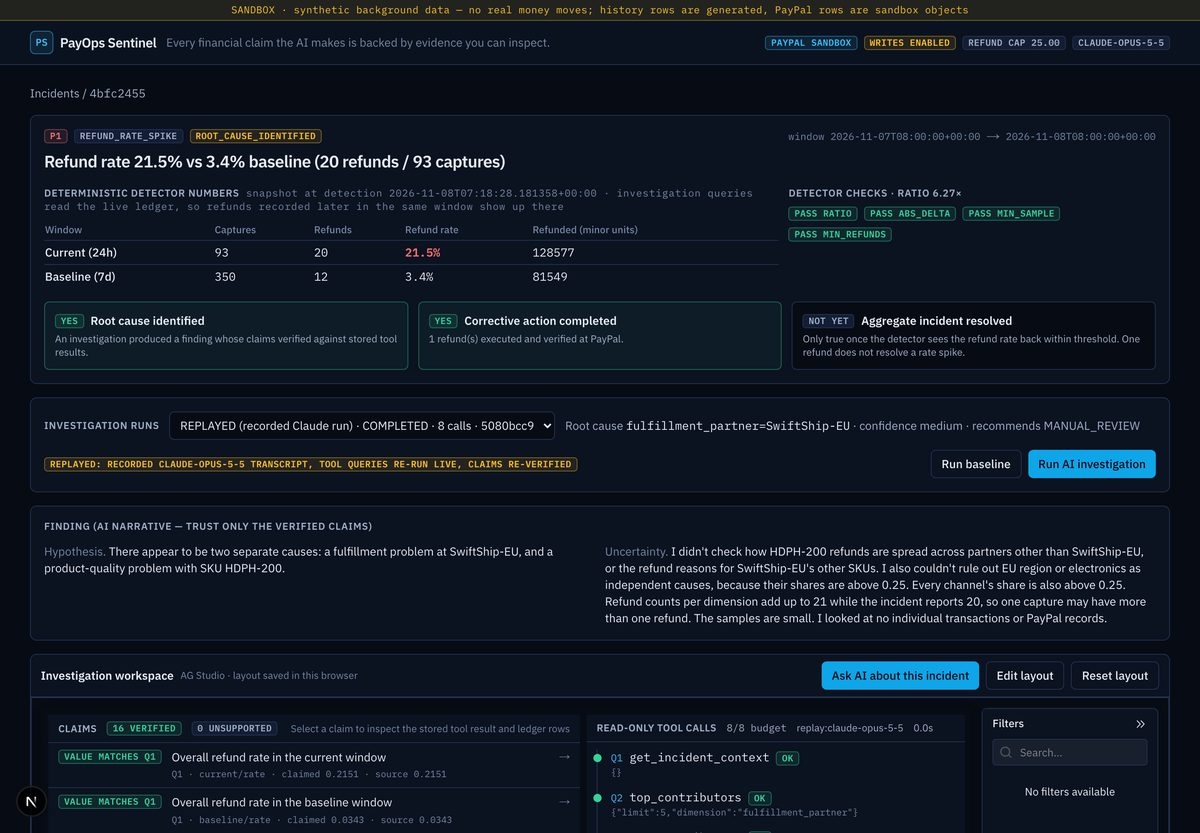
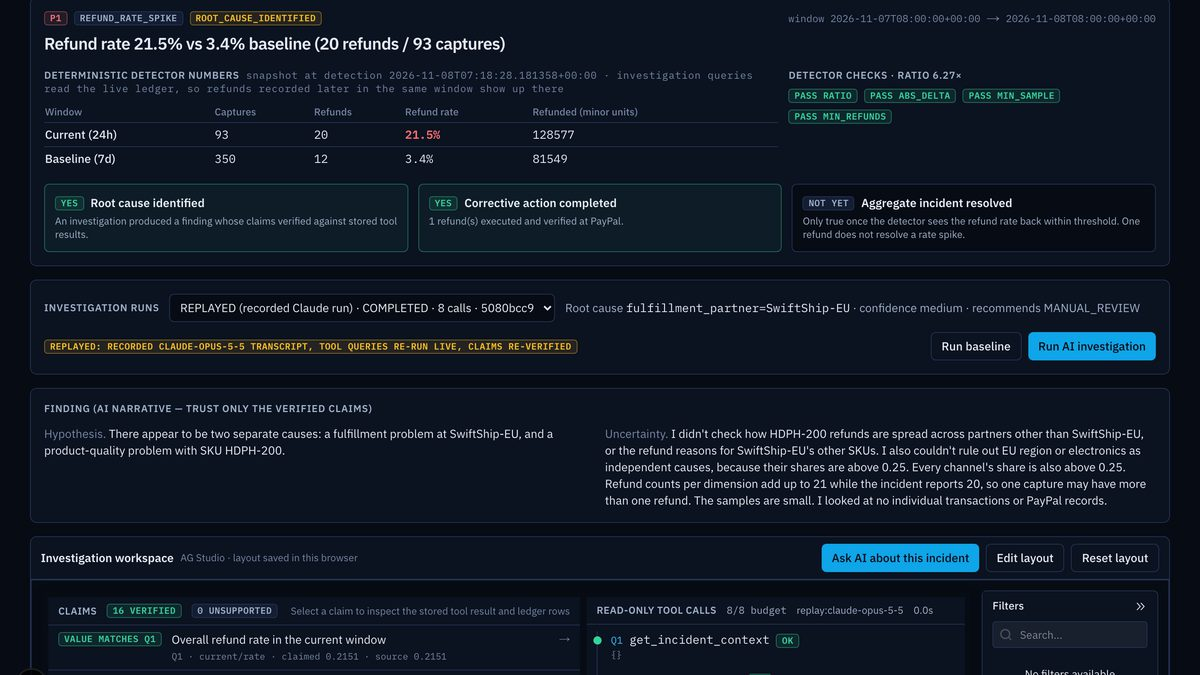
feat(profile): mobile hero, RewardShield up front, accurate approval wording (#4)
Add stacked mobile hero variants selected by a max-width picture source; crop flagship screenshots to 16:9; move RewardShield to the top of supporting work with its verified upstream contribution; correct the approval principle (DisputeDesk auto-files under $500) and the Half-Life attribution.

diff --git a/assets/src/build.py b/assets/src/build.py
@@ -25,10 +25,16 @@ THEMES = {
 SANS = "Inter, -apple-system, 'Segoe UI', Helvetica, Arial, sans-serif"
 MONO = "ui-monospace, 'SF Mono', Menlo, Consolas, 'Liberation Mono', monospace"
 
+DESC = (
+    "Building AI systems that reason, use tools, verify outcomes and stay inside "
+    "enforceable limits. Four stages: the model proposes, code enforces policy, a "
+    "person approves actions above risk limits, and the outcome is verified at the source."
+)
+
 STEPS = [
     ("01", "PROPOSE", "The model plans the action"),
     ("02", "ENFORCE", "Policy in code allows or denies"),
-    ("03", "AUTHORIZE", "A person signs what can't be undone"),
+    ("03", "AUTHORIZE", "Above risk limits, a person signs"),
     ("04", "VERIFY", "Outcome re-checked at the source"),
 ]
 
@@ -86,7 +92,7 @@ def hero(c):
         )
     return f"""<svg xmlns="http://www.w3.org/2000/svg" viewBox="0 0 {w} {h}" width="{w}" height="{h}" role="img" aria-labelledby="t d">
 <title id="t">Shroddha Ghosh — Software Engineer, AI Systems and Agentic Applications</title>
-<desc id="d">Building AI systems that reason, use tools, verify outcomes and stay inside enforceable limits. Four stages: the model proposes, code enforces policy, a person authorizes irreversible actions, and the outcome is verified at the source.</desc>
+<desc id="d">{DESC}</desc>
 <rect x="0.5" y="0.5" width="{w - 1}" height="{h - 1}" rx="14" fill="{c["bg"]}" stroke="{c["border"]}"/>
 {grid(c, w, h)}
 <text x="56" y="62" font-family="{MONO}" font-size="13" letter-spacing="2.6" fill="{c["muted"]}">SOFTWARE ENGINEER  /  AI SYSTEMS &amp; AGENTIC APPLICATIONS</text>
@@ -102,9 +108,64 @@ def hero(c):
 """
 
 
+def mobile_flow(c, x, ys):
+    """Same four stages, stacked: one row per stage, connectors pointing down."""
+    parts = []
+    for i in range(3):
+        y1, y2 = ys[i] + 16, ys[i + 1] - 22
+        colour = c["muted"] if i == 0 else c["accent"]
+        dash = ' stroke-dasharray="4 5"' if i == 0 else ""
+        parts.append(
+            f'<line x1="{x}" y1="{y1}" x2="{x}" y2="{y2}" stroke="{colour}" stroke-width="2"{dash}/>'
+            f'<path d="M{x - 5} {y2} L{x} {y2 + 8} L{x + 5} {y2} Z" fill="{colour}"/>'
+        )
+    for i, (num, label, desc) in enumerate(STEPS):
+        y = ys[i]
+        parts.append(node(i, x, y, c))
+        parts.append(
+            f'<text x="{x + 36}" y="{y - 2}" font-family="{MONO}" font-size="19" '
+            f'letter-spacing="2" fill="{c["faint"]}">{num}  '
+            f'<tspan fill="{c["text"]}" font-weight="600">{label}</tspan></text>'
+            f'<text x="{x + 36}" y="{y + 25}" font-family="{SANS}" font-size="21" '
+            f'fill="{c["muted"]}">{desc}</text>'
+        )
+    return "".join(parts)
+
+
+def hero_mobile(c):
+    """Phone layout: ~2x the type of the desktop hero at 300-400px rendered width."""
+    w, h = 560, 640
+    lines = [
+        ("Building AI systems that reason,", "text"),
+        ("use tools, verify outcomes,", "text"),
+        ("and stay inside limits that code", "muted"),
+        ("can enforce.", "muted"),
+    ]
+    headline = "".join(
+        f'<text x="32" y="{206 + 32 * i}" font-family="{SANS}" font-size="24" '
+        f'fill="{c[tone]}">{text}</text>'
+        for i, (text, tone) in enumerate(lines)
+    )
+    return f"""<svg xmlns="http://www.w3.org/2000/svg" viewBox="0 0 {w} {h}" width="{w}" height="{h}" role="img" aria-labelledby="t d">
+<title id="t">Shroddha Ghosh — Software Engineer, AI Systems and Agentic Applications</title>
+<desc id="d">{DESC}</desc>
+<rect x="0.5" y="0.5" width="{w - 1}" height="{h - 1}" rx="14" fill="{c["bg"]}" stroke="{c["border"]}"/>
+{grid(c, w, h, cols=6, inset=32)}
+<text x="32" y="52" font-family="{MONO}" font-size="15" letter-spacing="2.4" fill="{c["muted"]}">SOFTWARE ENGINEER</text>
+<text x="{w - 32}" y="52" text-anchor="end" font-family="{MONO}" font-size="15" letter-spacing="2.4" fill="{c["faint"]}">GE VERNOVA</text>
+<line x1="32" y1="68" x2="{w - 32}" y2="68" stroke="{c["text"]}" stroke-width="2"/>
+<text x="29" y="138" font-family="{SANS}" font-size="58" font-weight="700" letter-spacing="-1.8" fill="{c["text"]}">Shroddha Ghosh</text>
+<rect x="32" y="158" width="40" height="4" fill="{c["accent"]}"/>
+{headline}
+{mobile_flow(c, 56, [372, 444, 516, 588])}
+</svg>
+"""
+
+
 def main():
     for name, c in THEMES.items():
         (OUT / f"hero-{name}.svg").write_text(hero(c))
+        (OUT / f"hero-mobile-{name}.svg").write_text(hero_mobile(c))
 
 
 if __name__ == "__main__":

diff --git a/README.md b/README.md
@@ -1,20 +1,22 @@
 <picture>
+  <source media="(max-width: 640px) and (prefers-color-scheme: dark)" srcset="assets/hero-mobile-dark.svg">
+  <source media="(max-width: 640px)" srcset="assets/hero-mobile-light.svg">
   <source media="(prefers-color-scheme: dark)" srcset="assets/hero-dark.svg">
   <source media="(prefers-color-scheme: light)" srcset="assets/hero-light.svg">
-  <img alt="Shroddha Ghosh. Software Engineer, AI Systems and Agentic Applications. Building AI systems that reason, use tools, verify outcomes, and stay inside limits that code can enforce. Four stages: the model proposes, code enforces, a person authorizes, the outcome is verified." src="assets/hero-light.svg" width="100%">
+  <img alt="Shroddha Ghosh. Software Engineer, AI Systems and Agentic Applications. Building AI systems that reason, use tools, verify outcomes, and stay inside limits that code can enforce. Four stages: the model proposes, code enforces policy, a person approves actions above risk limits, the outcome is verified at the source." src="assets/hero-light.svg" width="100%">
 </picture>
 
 <p align="center">
   <a href="#selected-work"><b>Selected work</b></a> &nbsp;·&nbsp;
+  <a href="#research-and-supporting-work">Research</a> &nbsp;·&nbsp;
   <a href="#how-i-build">How I build</a> &nbsp;·&nbsp;
-  <a href="#capabilities">Capabilities</a> &nbsp;·&nbsp;
   <a href="https://shroddha-portfolio.vercel.app">Portfolio</a> &nbsp;·&nbsp;
   <a href="https://www.linkedin.com/in/shroddha-ghosh-90b332232/">LinkedIn</a>
 </p>
 
 I'm a software engineer building AI systems that call real tools, check their own work, and act only within limits enforced in code. I work as a **Software Engineering Specialist at GE Vernova** (Python, SQL, analytics, backend systems) and hold a B.Tech in Computer Science (2024).
 
-My independent work is about agentic applications where a wrong answer costs money: payment-incident investigation, chargeback defense, and storefronts that AI agents can buy from. Start with **[PayOps Sentinel](#payops-sentinel)**, **[AgentDoor](#agentdoor)** (live) and **[DisputeDesk](#disputedesk)**.
+My independent work is about agentic applications where a wrong answer costs money: payment-incident investigation, chargeback defense, and storefronts that AI agents can buy from. Start with **[PayOps Sentinel](#payops-sentinel)**, **[AgentDoor](#agentdoor)** (live) and **[DisputeDesk](#disputedesk)**; for evaluation research, **[RewardShield](#research-and-supporting-work)**.
 
 ## Selected work
 
@@ -22,78 +24,80 @@ My independent work is about agentic applications where a wrong answer costs mon
 
 **A refund-spike investigator that tries to disprove its own explanations before any money moves.**
 
+**[Repository](https://github.com/shro-2002/payops-sentinel) · [Demo video](https://youtu.be/5SXoGS8ZJnE) · [Evaluation](https://github.com/shro-2002/payops-sentinel/blob/main/docs/EVALUATION.md) · [Security model](https://github.com/shro-2002/payops-sentinel/blob/main/docs/SECURITY_MODEL.md)**
+
 <a href="https://github.com/shro-2002/payops-sentinel"><img src="assets/projects/payops-investigation.jpg" alt="PayOps Sentinel incident view: refund rate 21.5% against a 3.4% baseline, detector checks passing, an AI finding with its hypothesis and stated uncertainty, 16 verified and 0 unsupported claims, and the read-only tool calls behind them." width="100%"></a>
 
 When refunds spike, payment-ops teams need the real driver, not a plausible story, and any refund the system recommends has to be safe to execute.
 
-- The investigator agent gets read-only tools. The server re-runs exact hypergeometric tests (Bonferroni-corrected, Mantel-Haenszel stratified) against every driver the model names, and checks every number it states against the query it cites.
-- Refunds pass 16 deterministic policy checks and an approval bound to a SHA-256 hash of the exact action. They execute once with a stable PayPal request ID, are re-validated before submit, and are verified with PayPal after.
-- **Evidence:** on 360 held-out runs, the falsification engine cut false attributions from 26.9% to 2.8% against a share-based baseline. In the frozen evaluation, 84/84 numeric claims matched their source and 16/16 safety cases passed. 158 backend tests; CI on main.
+- **Falsification, not narration.** The agent gets read-only tools. The server re-runs exact statistical tests (hypergeometric, Bonferroni-corrected, Mantel-Haenszel stratified) on every driver the model names, and checks every number it states against the query it cites.
+- **Refunds behind a gate.** 16 deterministic policy checks and a human approval bound to a SHA-256 hash of the exact action. A refund executes once with a stable PayPal request ID, is re-validated with PayPal before submit and verified after.
+- **Evidence:** on 360 held-out runs, false attributions fell from 26.9% (share-based baseline) to 2.8%. In the frozen evaluation, 84/84 numeric claims matched their source and 16/16 safety cases passed. 158 backend tests; CI on main.
 
-<sub>Python · FastAPI · PostgreSQL · SQLAlchemy · Claude · Next.js · AG Grid &nbsp;|&nbsp; PayPal sandbox with real sandbox captures and synthetic history · PayPal AI Hackathon 2026</sub><br>
-<sub>[Repository](https://github.com/shro-2002/payops-sentinel) · [Demo video](https://youtu.be/5SXoGS8ZJnE) · [Evaluation](https://github.com/shro-2002/payops-sentinel/blob/main/docs/EVALUATION.md) · [Security model](https://github.com/shro-2002/payops-sentinel/blob/main/docs/SECURITY_MODEL.md)</sub>
+<sub>**Status:** PayPal sandbox integration with real sandbox captures and synthetic history &nbsp;·&nbsp; Python · FastAPI · PostgreSQL · SQLAlchemy · Claude · Next.js · AG Grid &nbsp;·&nbsp; PayPal AI Hackathon 2026</sub>
 
 ### AgentDoor
 
-**Owner-approved business rules, rehearsed against tough customers, then served to people and AI agents.**
+**Owner-approved business rules, rehearsed against simulated customers, then served to people and AI agents.**
 
-<a href="https://agentdoor.shop"><img src="assets/projects/agentdoor-rehearsal.jpg" alt="AgentDoor rehearsal screen: publishing is locked until 7 rules are approved; a simulated festival rush of 50 customers accepts 3 orders, refuses 47 with reasons, and oversells 0 units." width="100%"></a>
+**[Live demo](https://agentdoor.shop) · [Repository](https://github.com/shro-2002/agentdoor) · [Demo video](https://youtu.be/ES2aL0BVhkI) · [Architecture](https://github.com/shro-2002/agentdoor/blob/main/planning/03_ARCHITECTURE.md)**
 
-A home baker describes her business in her own words. AgentDoor turns that into rules she approves one by one, runs simulated customers against them, and launches a storefront with an MCP endpoint that AI shopping agents can order from.
+<a href="https://agentdoor.shop"><img src="assets/projects/agentdoor-rehearsal.jpg" alt="AgentDoor rehearsal screen: publishing is locked until 7 rules are approved; a simulated festival rush of 50 customers accepts 3 orders, refuses 47, and oversells 0 units." width="100%"></a>
 
-- Claude drafts declarative, schema-validated policy. Nothing goes live until the owner approves each rule, and model output is never executed as code.
-- Prices, capacity and refusals are pure functions. A test fails the build if anything outside the setup workspace references a model client, so no model sits in the money path.
-- Quotes are Ed25519-signed tokens bound to the policy hash. Orders reserve capacity with a conditional update inside one transaction with a fixed lock order, so a rush cannot oversell.
+A home baker describes the business in their own words. AgentDoor turns that into rules the owner approves one by one, rehearses them against simulated customers, and launches a storefront with an MCP endpoint that AI shopping agents can order from.
+
+- **No model in the money path.** Claude drafts declarative, schema-validated policy, and nothing goes live until the owner approves each rule. Prices, capacity and refusals are pure functions; a test fails the build if code outside the setup workspace references a model client.
+- **Orders that cannot oversell.** Quotes are Ed25519-signed tokens bound to the policy hash. Each order reserves capacity with a conditional update inside one transaction with a fixed lock order.
 - **Evidence:** live at [agentdoor.shop](https://agentdoor.shop); its MCP endpoint (Streamable HTTP) serves `get_business_info`, `get_quote` and `place_order`. Unit, property-based and integration tests, plus Playwright and axe end-to-end checks.
 
-<sub>TypeScript · Node · Express · Zod · MCP SDK · MySQL · Claude · Vitest · fast-check &nbsp;|&nbsp; Live demo with an illustrative shop: no payments, no real customers · GoDaddy Inclusive Innovation Hackathon 2026</sub><br>
-<sub>[Repository](https://github.com/shro-2002/agentdoor) · [Live demo](https://agentdoor.shop) · [Demo video](https://youtu.be/ES2aL0BVhkI) · [Architecture](https://github.com/shro-2002/agentdoor/blob/main/planning/03_ARCHITECTURE.md)</sub>
+<sub>**Status:** live demo with an illustrative shop; no payments, no real customers &nbsp;·&nbsp; TypeScript · Node · Express · Zod · MCP SDK · MySQL · Claude · Vitest · fast-check &nbsp;·&nbsp; GoDaddy Inclusive Innovation Hackathon 2026</sub>
 
 ### DisputeDesk
 
-**A chargeback desk where agents draft, code decides, and a person signs the big ones.**
+**A chargeback desk where agents draft, code decides, and a person signs the large ones.**
+
+**[Repository](https://github.com/shro-2002/disputedesk) · [Demo video (2:43)](https://youtu.be/A_EF8L1ivME) · [Claim audit](https://github.com/shro-2002/disputedesk/blob/main/docs/README_CLAIM_AUDIT.md)**
 
 <a href="https://github.com/shro-2002/disputedesk"><img src="assets/projects/disputedesk-approval.jpg" alt="DisputeDesk in a team chat: a support user's approval is refused and logged because only the FinOps lead can approve money movements; the FinOps lead approves, and the submitter files the representment with a gateway receipt and audit references." width="100%"></a>
 
 Card-not-present fraud disputes (Visa reason code 10.4) are won or lost on evidence rules, and filing one moves money.
 
-- Three agents work in a shared team chat to gather evidence, draft and file. Visa Compelling Evidence 3.0 eligibility is decided in code; Claude only writes the letter.
-- Provable disputes under $500 file automatically. Larger ones wait for the FinOps lead; anyone else's approval is refused and logged.
-- The payment gateway verifies an HMAC-SHA256 audit chain before every money call. Receipts are unique per dispute and approval, so replays are rejected.
+- **Eligibility in code.** Three agents gather evidence, draft and file in a shared team chat. Visa Compelling Evidence 3.0 eligibility is decided in code; Claude only writes the letter.
+- **Approval scales with risk.** Provable disputes under $500 file automatically; larger ones wait for the FinOps lead, and anyone else's approval is refused and logged. The gateway verifies an HMAC-SHA256 audit chain before every money call, and receipts are unique per dispute and approval.
 - **Evidence:** 349 tests, 99 of them attacks on the approval gate: replays, cross-dispute approvals, forged audit rows, mid-chain rewrites. The chain's known limits are written down, not hidden.
 
-<sub>Python · FastAPI · SQLite · Claude · Switch (Mattermost) &nbsp;|&nbsp; Mock payment gateway, synthetic disputes · WeMakeDevs Flip the Switch hackathon</sub><br>
-<sub>[Repository](https://github.com/shro-2002/disputedesk) · [Demo video (2:43)](https://youtu.be/A_EF8L1ivME) · [Claim audit](https://github.com/shro-2002/disputedesk/blob/main/docs/README_CLAIM_AUDIT.md)</sub>
+<sub>**Status:** prototype with a mock payment gateway and synthetic disputes &nbsp;·&nbsp; Python · FastAPI · SQLite · Claude · Switch (Mattermost) &nbsp;·&nbsp; WeMakeDevs Flip the Switch hackathon</sub>
 
-### Also worth a look
+## Research and supporting work
 
-**[Half-Life](https://github.com/shro-2002/halflife): facts decay; this tells an AI gateway which answers to re-check, and when.** A verdict counts only if its quote appears verbatim in the cited source. On 108 hand-labelled cases: precision 0.854, recall 0.921. With half the checking budget it catches 83% of stale answers against 69% for a fair random baseline. 160 tests, CI green.
-<sub>Python · FastAPI · SciPy · MCP · Tavily · [Demo video](https://youtu.be/0BJx83UlPSU)</sub>
+**[RewardShield](https://github.com/shro-2002/rewardshield): how often SQL execution rewards accept wrong queries, and whether catching them changes what a small agent learns.** A pre-registered study on Tiny Aya Global (3B): five verifiers compared on 1,360 agent trajectories, labelled by an independent Spider test-suite oracle. Checking each reward on 4 mutation-targeted databases cut the false-accept share from 3.88% to 1.39%; averaged over 200 database draws, its edge over 4 random databases is small (−0.25 points on the audit split, −1.57 on held-out schemas). Filtering LoRA fine-tuning data with the better verifier made no measurable difference (−1.06 points, interval spans zero), and the write-up says so. Upstream, I reported a defect that made AgentTune's shipped SQL reward score every Tiny Aya rollout −1 ([issue #20](https://github.com/Lexsi-Labs/AgentTune/issues/20)); my column-order fix was merged in [PR #22](https://github.com/Lexsi-Labs/AgentTune/pull/22), and the maintainers released a root-cause fix in agenttune 1.1.7.
+<sub>Python · TRL · LoRA · SQLite · AgentTune · AuditKIT · Kaggle T4 &nbsp;·&nbsp; [Results](https://github.com/shro-2002/rewardshield/blob/main/RESULTS.md) · [Pre-registration](https://github.com/shro-2002/rewardshield/blob/main/HYPOTHESES.md) · [Upstream outcome](https://github.com/shro-2002/rewardshield/blob/main/reports/upstream/OUTCOME.md)</sub>
 
-**[KinSync](https://github.com/shro-2002/KinSync): care handoffs where responsibility moves only when a person approves and the recipient accepts.** Self-hosted MCP server (spec 2025-11-25, Streamable HTTP, origin checks) with an MCP Apps dashboard. The agent boundary is tested against a planner that obeys injected instructions: human-only tools are refused and nothing is written. 236 tests.
-<sub>TypeScript · MCP SDK · Express · SQLite · Claude &nbsp;|&nbsp; Local prototype, simulated Alexa+ workflow, synthetic data</sub>
+**[Half-Life](https://github.com/shro-2002/halflife): tells an AI gateway which stored answers to re-check first.** A verdict counts only if its quote appears verbatim in the cited source. On 108 cases labelled by one annotator: precision 0.854, recall 0.921, and 13% of current claims wrongly flagged as changed. Re-checking half the claims, ordered by the model's outdated-probability, catches 83% of stale claims against 69% for a fair random baseline; the half-life decay model itself showed no measurable lift, and the README reports it. 160 tests, CI green.
+<sub>Python · FastAPI · SciPy · MCP · Tavily &nbsp;·&nbsp; [Demo video](https://youtu.be/0BJx83UlPSU)</sub>
 
 **[AuditGlimmer](https://github.com/shro-2002/auditglimmer): inspection photos to traceable lending-collateral evidence.** SAM 3.1 segments equipment and Muse Spark reads serials; the reading model never sees the asset register, and tiered rules name the reason for every match. Pre-registered study: 11/16 exact serials (69%), just below its own 70% bar, and 0 serials invented on 8 negatives. 144 backend tests.
-<sub>Python · FastAPI · Next.js · SAM 3.1 · Muse Spark &nbsp;|&nbsp; Local prototype · [Demo video (2:55)](https://youtu.be/xvGoop1LOUE)</sub>
+<sub>Python · FastAPI · Next.js · SAM 3.1 · Muse Spark &nbsp;·&nbsp; Local prototype &nbsp;·&nbsp; [Demo video (2:55)](https://youtu.be/xvGoop1LOUE)</sub>
 
-**More:**
-[RewardShield](https://github.com/shro-2002/rewardshield) measures how often SQL execution rewards accept wrong queries; I reported the underlying reward bug upstream ([AgentTune #20](https://github.com/Lexsi-Labs/AgentTune/issues/20)) and my fix commit shipped in the merged [PR #22](https://github.com/Lexsi-Labs/AgentTune/pull/22) ·
-[Metric Mirage](https://github.com/shro-2002/metric-mirage) flags when an overall rate rises while every group falls, using exact-fraction decomposition ([live](https://shro-2002.github.io/metric-mirage/)) ·
-[AcceptGuard](https://github.com/shro-2002/acceptguard) rebuilds MSME payment deadlines from delivery evidence for accountant review ([live](https://acceptguard.onrender.com)) ·
-[AmanShift](https://github.com/shro-2002/amanshift) plans heat protection for outdoor crews that only gets stricter when data disappears ([live](https://amanshift.onrender.com)) ·
-[Countersign](https://github.com/shro-2002/countersign) limits agent refunds to what the merchant authorized, checked against PayPal's live record
+**More projects**
 
-<sub>Every project above is a prototype, sandbox or demo build; none is a production deployment, and no hackathon result is claimed. I use AI coding assistants for much of the implementation. My part is scoping, architecture, controls, reviewing the code, defining the tests and evaluations, and deciding what ships.</sub>
+- **[KinSync](https://github.com/shro-2002/KinSync)**: care handoffs where responsibility moves only when a person approves and the recipient accepts. Self-hosted MCP server (spec 2025-11-25, Streamable HTTP, origin checks) tested against a planner that obeys injected instructions; 236 tests. Local prototype, simulated Alexa+ workflow.
+- **[Metric Mirage](https://github.com/shro-2002/metric-mirage)**: flags when an overall rate rises while every group falls, using exact-fraction decomposition ([live](https://shro-2002.github.io/metric-mirage/)).
+- **[AcceptGuard](https://github.com/shro-2002/acceptguard)**: rebuilds MSME payment deadlines from delivery evidence for accountant review ([live](https://acceptguard.onrender.com)).
+- **[AmanShift](https://github.com/shro-2002/amanshift)**: heat-protection plans for outdoor crews that only get stricter when data disappears ([live](https://amanshift.onrender.com)).
+- **[Countersign](https://github.com/shro-2002/countersign)**: limits agent refunds to what the merchant authorized, checked against PayPal's record of the payment.
+
+<sub>Every project above is a prototype, sandbox integration or live demo; none is a production deployment with real users, and no hackathon result is claimed. I use AI coding assistants for much of the implementation. My part is scoping, architecture, controls, reviewing the code, defining the tests and evaluations, and deciding what ships.</sub>
 
 ## How I build
 
-**The model proposes. Code enforces the limits. Evidence checks the result. A person signs off on anything that moves money or can't be undone.**
+**Models propose. Code enforces policy. People set the limits and approve what falls outside them. Outcomes are checked, not assumed.**
 
-- **Models get narrow tools.** Read-only, argument-validated, budgeted. No raw SQL, no generated code executed.
-- **Rules live in code, not prompts.** Pricing, eligibility, and refund policy are deterministic functions with tests.
-- **Every claim is checkable.** Numbers trace to the query that produced them. Unsupported claims are flagged, not shown.
-- **Money paths are boring on purpose.** Idempotency keys, unique constraints, single-use approvals, verification after the write.
-- **Results are reported as counts, including the failures.** Frozen and held-out evaluations; misses stay in the write-up.
+- **Model output is a proposal.** A hypothesis, a draft letter, a policy to approve. Tools are read-only and argument-validated; generated code is never executed.
+- **Policy lives in code.** Pricing, eligibility and refund rules are deterministic functions with tests, not prompt instructions.
+- **Automation is granted by policy, not by default.** AgentDoor takes orders only under rules its owner approved one by one. DisputeDesk files provable cases under $500 on its own and waits for the FinOps lead above that. PayOps Sentinel never refunds without an approval bound to the exact action.
+- **Outcomes are verified at the source.** PayOps Sentinel re-reads each capture from PayPal before and after a refund; DisputeDesk's gateway checks the audit chain before any money call; stated numbers are checked against the query that produced them.
+- **Results are reported as counts, failures included.** Pre-registered hypotheses, held-out sets, intervals, and the misses kept in the write-up.
 
 ## Capabilities
 
@@ -101,7 +105,7 @@ Card-not-present fraud disputes (Visa reason code 10.4) are won or lost on evide
 |---|---|
 | **Agent systems** | Tool calling with read-only, validated tools · multi-agent workflows · MCP servers (Streamable HTTP) · structured outputs · Claude and Gemini APIs |
 | **Backend and APIs** | Python · FastAPI · Pydantic · SQLAlchemy · TypeScript · Node · Express · Zod · Next.js · React |
-| **Evaluation and testing** | Frozen and held-out eval sets · pre-registered studies · exact statistical tests · pytest · Vitest · property-based testing · Playwright |
+| **Evaluation and fine-tuning** | Frozen and held-out eval sets · pre-registered studies · exact statistical tests and bootstrap intervals · LoRA SFT with TRL · pytest · Vitest · property-based testing · Playwright |
 | **Security and reliability** | Policy engines · idempotency and unique constraints · Ed25519 signing · HMAC and SHA-256 hash chains · approval bound to an action hash · prompt-injection tests |
 | **Data and infrastructure** | SQL · PostgreSQL · MySQL · SQLite · pandas · NumPy · SciPy · PyTorch · Docker · GitHub Actions |
 
